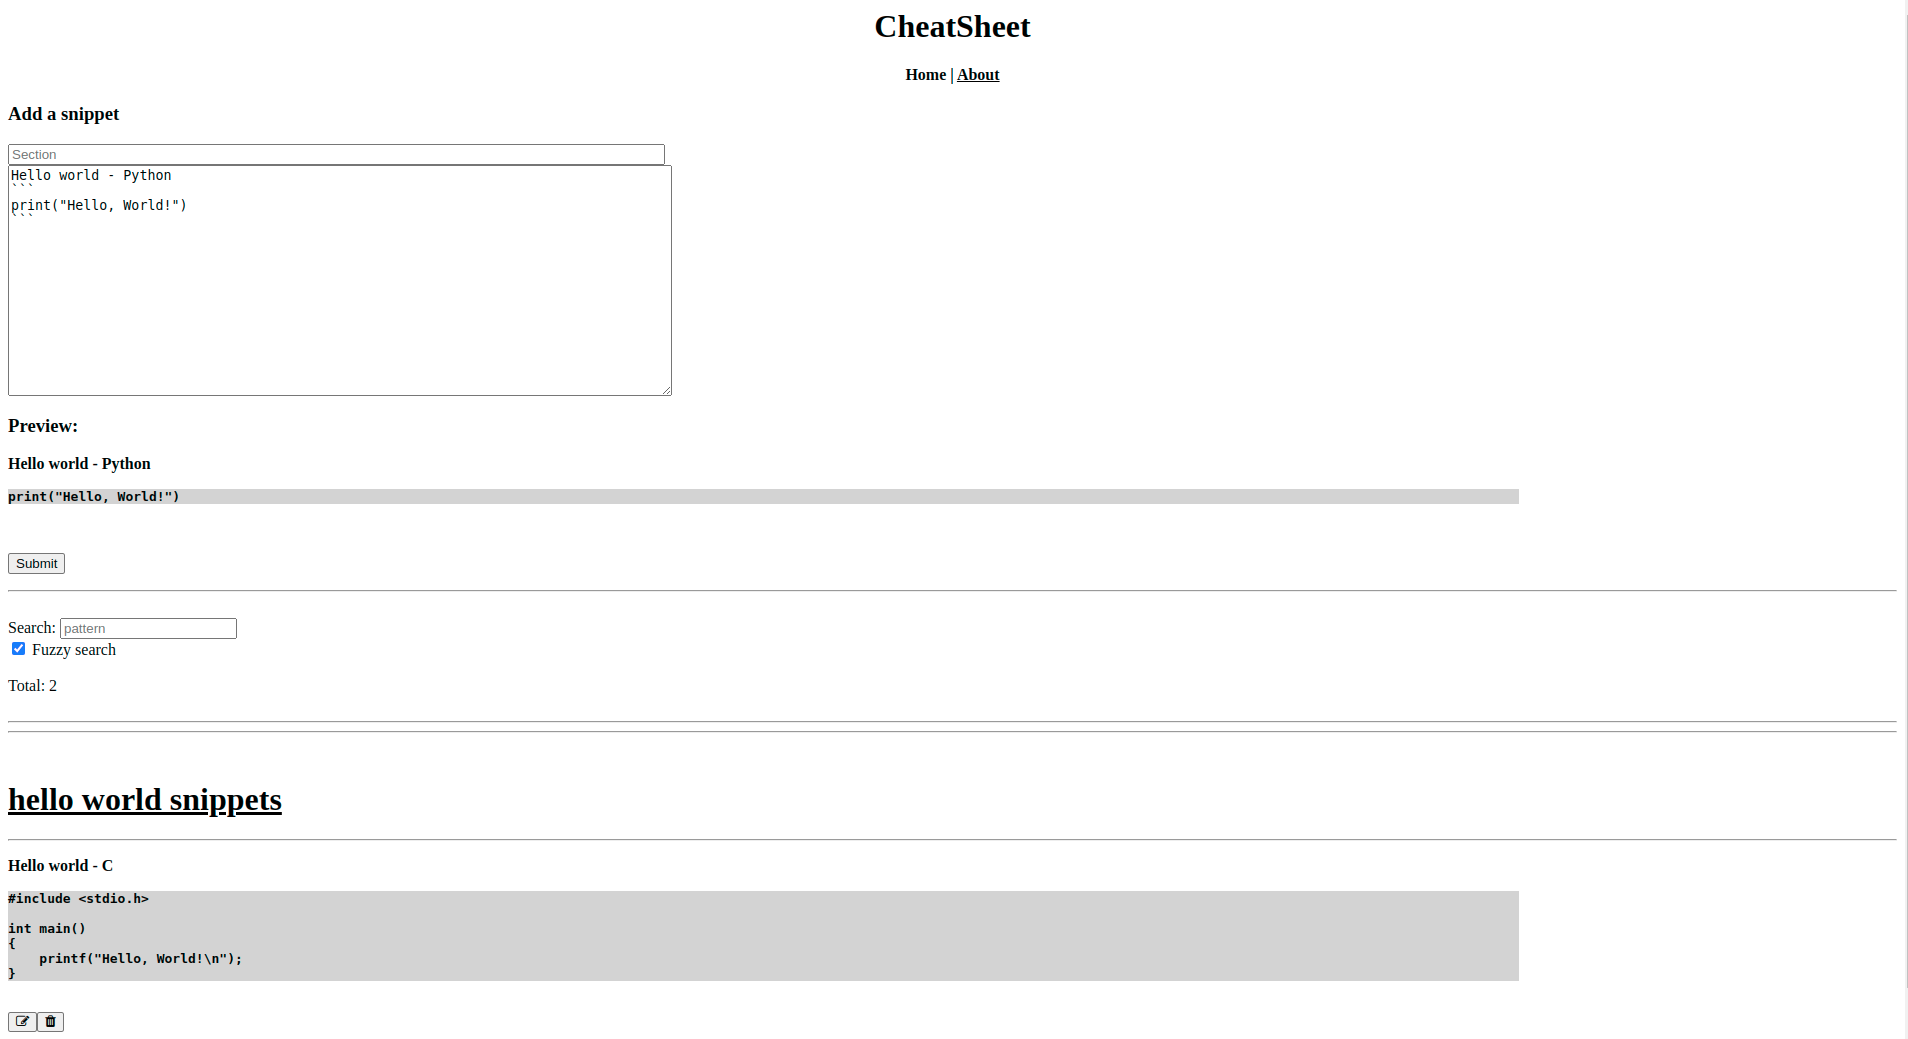
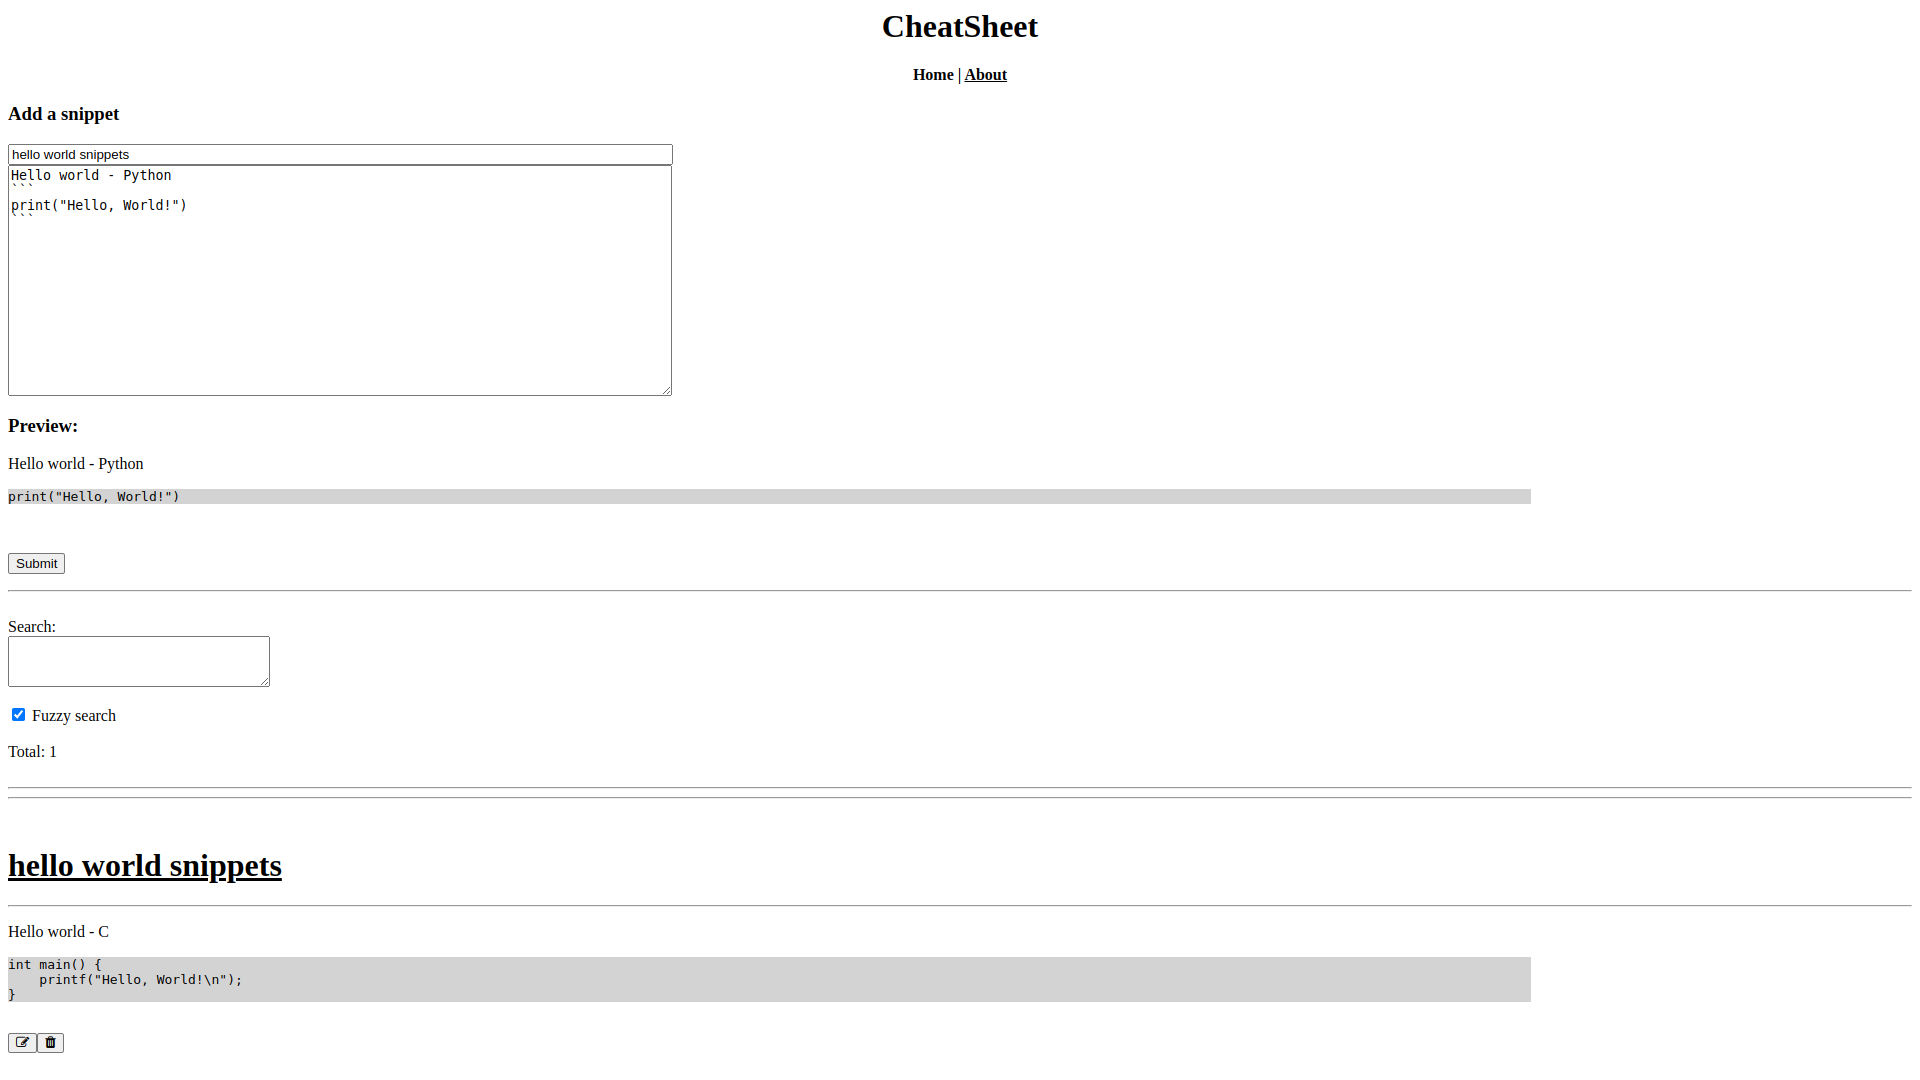
Version 1.1: multi search

Changed region(s): [[0.0, 0.3696, 1.0, 1.0], [0.0, 0.0924, 0.3401, 0.2156], [0.4638, 0.0, 0.5566, 0.0924]]

diff --git a/src/app/app_api.py b/src/app/app_api.py
@@ -1,3 +1,4 @@
+import base64
 import logging
 from enum import Enum
 from urllib.parse import unquote_plus
@@ -6,7 +7,6 @@ from flask import Flask, request
 from markdown import markdown
 
 from utils import opts, version
-from utils.html_utils import highlight
 from app.app_sections import CheatsheetSection
 
 
@@ -110,24 +110,26 @@ class AppAPI:
         def _search_section():
             return """
                 <br>
-                Search: <input type="search" id="searchCheatsheet" placeholder="pattern"><br>
+                Search:
+                <br>
+                <textarea id="searchCheatsheet" name="searchCheatsheet" rows="3" cols="30"></textarea><br>
+                <br>
 
                 <input type="checkbox" id="fuzzy" checked>
                 <label for="fuzzy"> Fuzzy search</label><br>
-
                 <br>
 
                 <script type="text/javascript">
                   function searchEvent()
                   {
-                    pattern = document.getElementById("searchCheatsheet").value;
+                    patterns = document.getElementById("searchCheatsheet").value;
                     fuzzy = document.getElementById("fuzzy").checked;
 
                     const xhttp = new XMLHttpRequest();
                     xhttp.onload = function() {
                       document.getElementById("cheatsheets_div").innerHTML = this.responseText;
                     }
-                    xhttp.open("GET", "/snippets?pattern=" + pattern +
+                    xhttp.open("GET", "/snippets?pattern=" + btoa(patterns) +
                       "&fuzzy=" + fuzzy);
                     xhttp.send();
                   }
@@ -211,12 +213,11 @@ class AppAPI:
                 prev_section = None
                 for b in display_cheatsheets_section.cheatsheets:
                     md_snippet = to_markdown(b.snippet)
-                    section = highlight(b.escaped_chars_section, b.section_indexes)
 
                     if b.section and b.section != prev_section:
                         prev_section = b.section
                         cheatsheets_section += "<hr><hr>"
-                        cheatsheets_section += f"<br><u><b><h1>{section}</h1></b></u>"
+                        cheatsheets_section += f"<br><u><b><h1>{b.section}</h1></b></u>"
 
                     cheatsheets_section += "<hr>"
                     cheatsheets_section += f"{md_snippet}<br>"
@@ -260,17 +261,27 @@ class AppAPI:
 
         @self.app_api.route(Route.CHEATSHEETS.value)
         def cheatsheet():
-            pattern = request.args.get("pattern")
+            patterns = request.args.get("pattern")
+            if patterns:
+                patterns = base64.b64decode(patterns).decode('utf-8')
+                patterns = patterns.split()
+            else:
+                patterns = []
+
             is_fuzzy = request.args.get("fuzzy", IS_FUZZY_DEFAULT)
             is_fuzzy = is_fuzzy.lower() == "true"
-            return _cheatsheets_section(self.app.display_cheatsheets(pattern, is_fuzzy))
+
+            return _cheatsheets_section(self.app.display_cheatsheets(patterns, is_fuzzy))
 
         @self.app_api.route(Route.INDEX.value)
         def index():
             pattern = request.args.get("pattern")
+            patterns = [pattern] if pattern else []
+
             is_fuzzy = request.args.get("fuzzy", IS_FUZZY_DEFAULT)
             is_fuzzy = is_fuzzy.lower() == "true"
-            return _main_page(None, self.app.display_cheatsheets(pattern, is_fuzzy), None)
+
+            return _main_page(None, self.app.display_cheatsheets(patterns, is_fuzzy), None)
 
         @self.app_api.route(Route.ADD_CHEATSHEET.value, methods=["POST"])
         def add_cheatsheet():

diff --git a/src/utils/test_html_utils.py b/src/utils/test_html_utils.py
@@ -17,32 +17,3 @@ class TestHTMLUtils:
         assert html_utils.split_escaped_text("&lt;ab") == ["&lt;", "a", "b"]
         assert html_utils.split_escaped_text("ab&gt;") == ["a", "b", "&gt;"]
         assert html_utils.split_escaped_text("a&amp;b") == ["a", "&amp;", "b"]
-
-    def test_highlight(self):
-        assert html_utils.highlight(None,
-                                    None) == ""
-        assert html_utils.highlight([],
-                                    None) == ""
-
-        assert html_utils.highlight(["a", "b", "c"],
-                                    None) == "abc"
-        assert html_utils.highlight(["a", "b", "c"],
-                                    {}) == "abc"
-        assert html_utils.highlight(["a", "b", "c"],
-                                    {}) == "abc"
-
-        assert html_utils.highlight(["a"],
-                                    {}) == "a"
-        assert html_utils.highlight(["a"],
-                                    {0}) == "<mark>a</mark>"
-        assert html_utils.highlight(["a", "b", "c"],
-                                    {0}) == "<mark>a</mark>bc"
-        assert html_utils.highlight(["a", "b", "c"],
-                                    {0, 2}) == "<mark>a</mark>b<mark>c</mark>"
-        assert html_utils.highlight(["a", "b", "c"],
-                                    {0, 2, 1}) == "<mark>a</mark><mark>b</mark><mark>c</mark>"
-
-        assert html_utils.highlight(["a", "&amp;", "c"],
-                                    {0}) == "<mark>a</mark>&amp;c"
-        assert html_utils.highlight(["a", "&amp;", "c"],
-                                    {1}) == "a<mark>&amp;</mark>c"

diff --git a/src/tests/test_e2e_cheatsheets_endpoints.py b/src/tests/test_e2e_cheatsheets_endpoints.py
@@ -1,3 +1,5 @@
+import base64
+
 import requests
 
 from app import app
@@ -46,7 +48,8 @@ class TestE2eCheatsheetsEndpoint(TestE2eBase):
         self._compare_num_cheatsheets(response, 2)
 
         pattern = "test_snippet_3"
-        response = requests.get(URL.CHEATSHEETS.value, params={"pattern": pattern})
+        encoded_pattern = base64.b64encode(pattern.encode("ascii"))
+        response = requests.get(URL.CHEATSHEETS.value, params={"pattern": encoded_pattern})
         self._compare_num_cheatsheets(response, 0, db_avail=False)
         assert response.text.count("mark>") == 0
 
@@ -57,5 +60,6 @@ class TestE2eCheatsheetsEndpoint(TestE2eBase):
         self._compare_num_cheatsheets(response, 2)
 
         pattern = "test_snippet_1"
-        response = requests.get(URL.CHEATSHEETS.value, params={"pattern": pattern})
+        encoded_pattern = base64.b64encode(pattern.encode("ascii"))
+        response = requests.get(URL.CHEATSHEETS.value, params={"pattern": encoded_pattern})
         self._compare_num_cheatsheets(response, 1, db_avail=False)

diff --git a/src/app/app.py b/src/app/app.py
@@ -23,7 +23,7 @@ class App:
     def __init__(self, server):
         self.server = server
 
-    def display_cheatsheets(self, pattern, is_fuzzy):
+    def display_cheatsheets(self, patterns, is_fuzzy):
         """
         Args:
             pattern (str | None): a pattern to filter results
@@ -33,16 +33,7 @@ class App:
             display_cheatsheets_section: DisplayCheatsheetsSection object
         """
         try:
-            cheatsheets = self.server.get_cheatsheets(pattern, is_fuzzy)
-
-            # clean last search
-            if not pattern:
-                for b in cheatsheets:
-                    if b.snippet_indexes:
-                        b.snippet_indexes.clear()
-                    if b.section_indexes:
-                        b.section_indexes.clear()
-
+            cheatsheets = self.server.get_cheatsheets(patterns, is_fuzzy)
             return DisplayCheatsheetsSection(cheatsheets, None)
         except InternalException:
             return DisplayCheatsheetsSection(None, GET_CHEATSHEETS_ERR_MSG)

diff --git a/src/server/cheatsheet.py b/src/server/cheatsheet.py
@@ -58,9 +58,6 @@ class Cheatsheet:
         self.escaped_chars_section = split_escaped_text(self.escaped_section)
         assert len(self.escaped_chars_section) == len(self.section)
 
-        self.snippet_indexes = None
-        self.section_indexes = None
-
     def __lt__(self, other):
         if self.section_lower != other.section_lower:
             return self.section_lower < other.section_lower
@@ -73,6 +70,4 @@ class Cheatsheet:
             pattern is lower case
         """
         search_method = is_match if is_fuzzy else _regular_search
-        self.snippet_indexes = search_method(pattern, self.snippet_lower)
-        self.section_indexes = search_method(pattern, self.section_lower)
-        return self.snippet_indexes is not None
+        return search_method(pattern, self.snippet_lower) is not None

diff --git a/src/server/server.py b/src/server/server.py
@@ -44,13 +44,16 @@ class Server:
         self._cache = cheatsheets
         return self._cache
 
-    def get_cheatsheets(self, pattern, is_fuzzy):
+    def get_cheatsheets(self, patterns, is_fuzzy):
         cheatsheets = self._get_all_cheatsheets()
-        if not pattern:
+        if not patterns:
             return cheatsheets
 
-        pattern = pattern.lower()
-        return [b for b in cheatsheets if b.match(pattern, is_fuzzy)]
+        matches = cheatsheets
+        patterns = [p.lower() for p in patterns]
+        for p in patterns:
+            matches = [m for m in matches if m.match(p, is_fuzzy)]
+        return matches
 
     def add_cheatsheet(self, snippet, section):
         self._invalidate_cache()

diff --git a/src/utils/html_utils.py b/src/utils/html_utils.py
@@ -22,18 +22,3 @@ def split_escaped_text(line):
                 escaped_opened = True
 
     return res
-
-
-def highlight(line_list, indexes):
-    if not line_list:
-        return ""
-    if not indexes:
-        return "".join(line_list)
-
-    highlighted_line = ""
-    for i, c in enumerate(line_list):
-        if i in indexes:
-            highlighted_line += f"<mark>{c}</mark>"
-        else:
-            highlighted_line += c
-    return "".join(highlighted_line)

diff --git a/src/utils/version.py b/src/utils/version.py
@@ -4,7 +4,7 @@ from utils import paths
 
 
 MAJOR = 1
-MINOR = 0
+MINOR = 1
 
 
 def get_patch():
